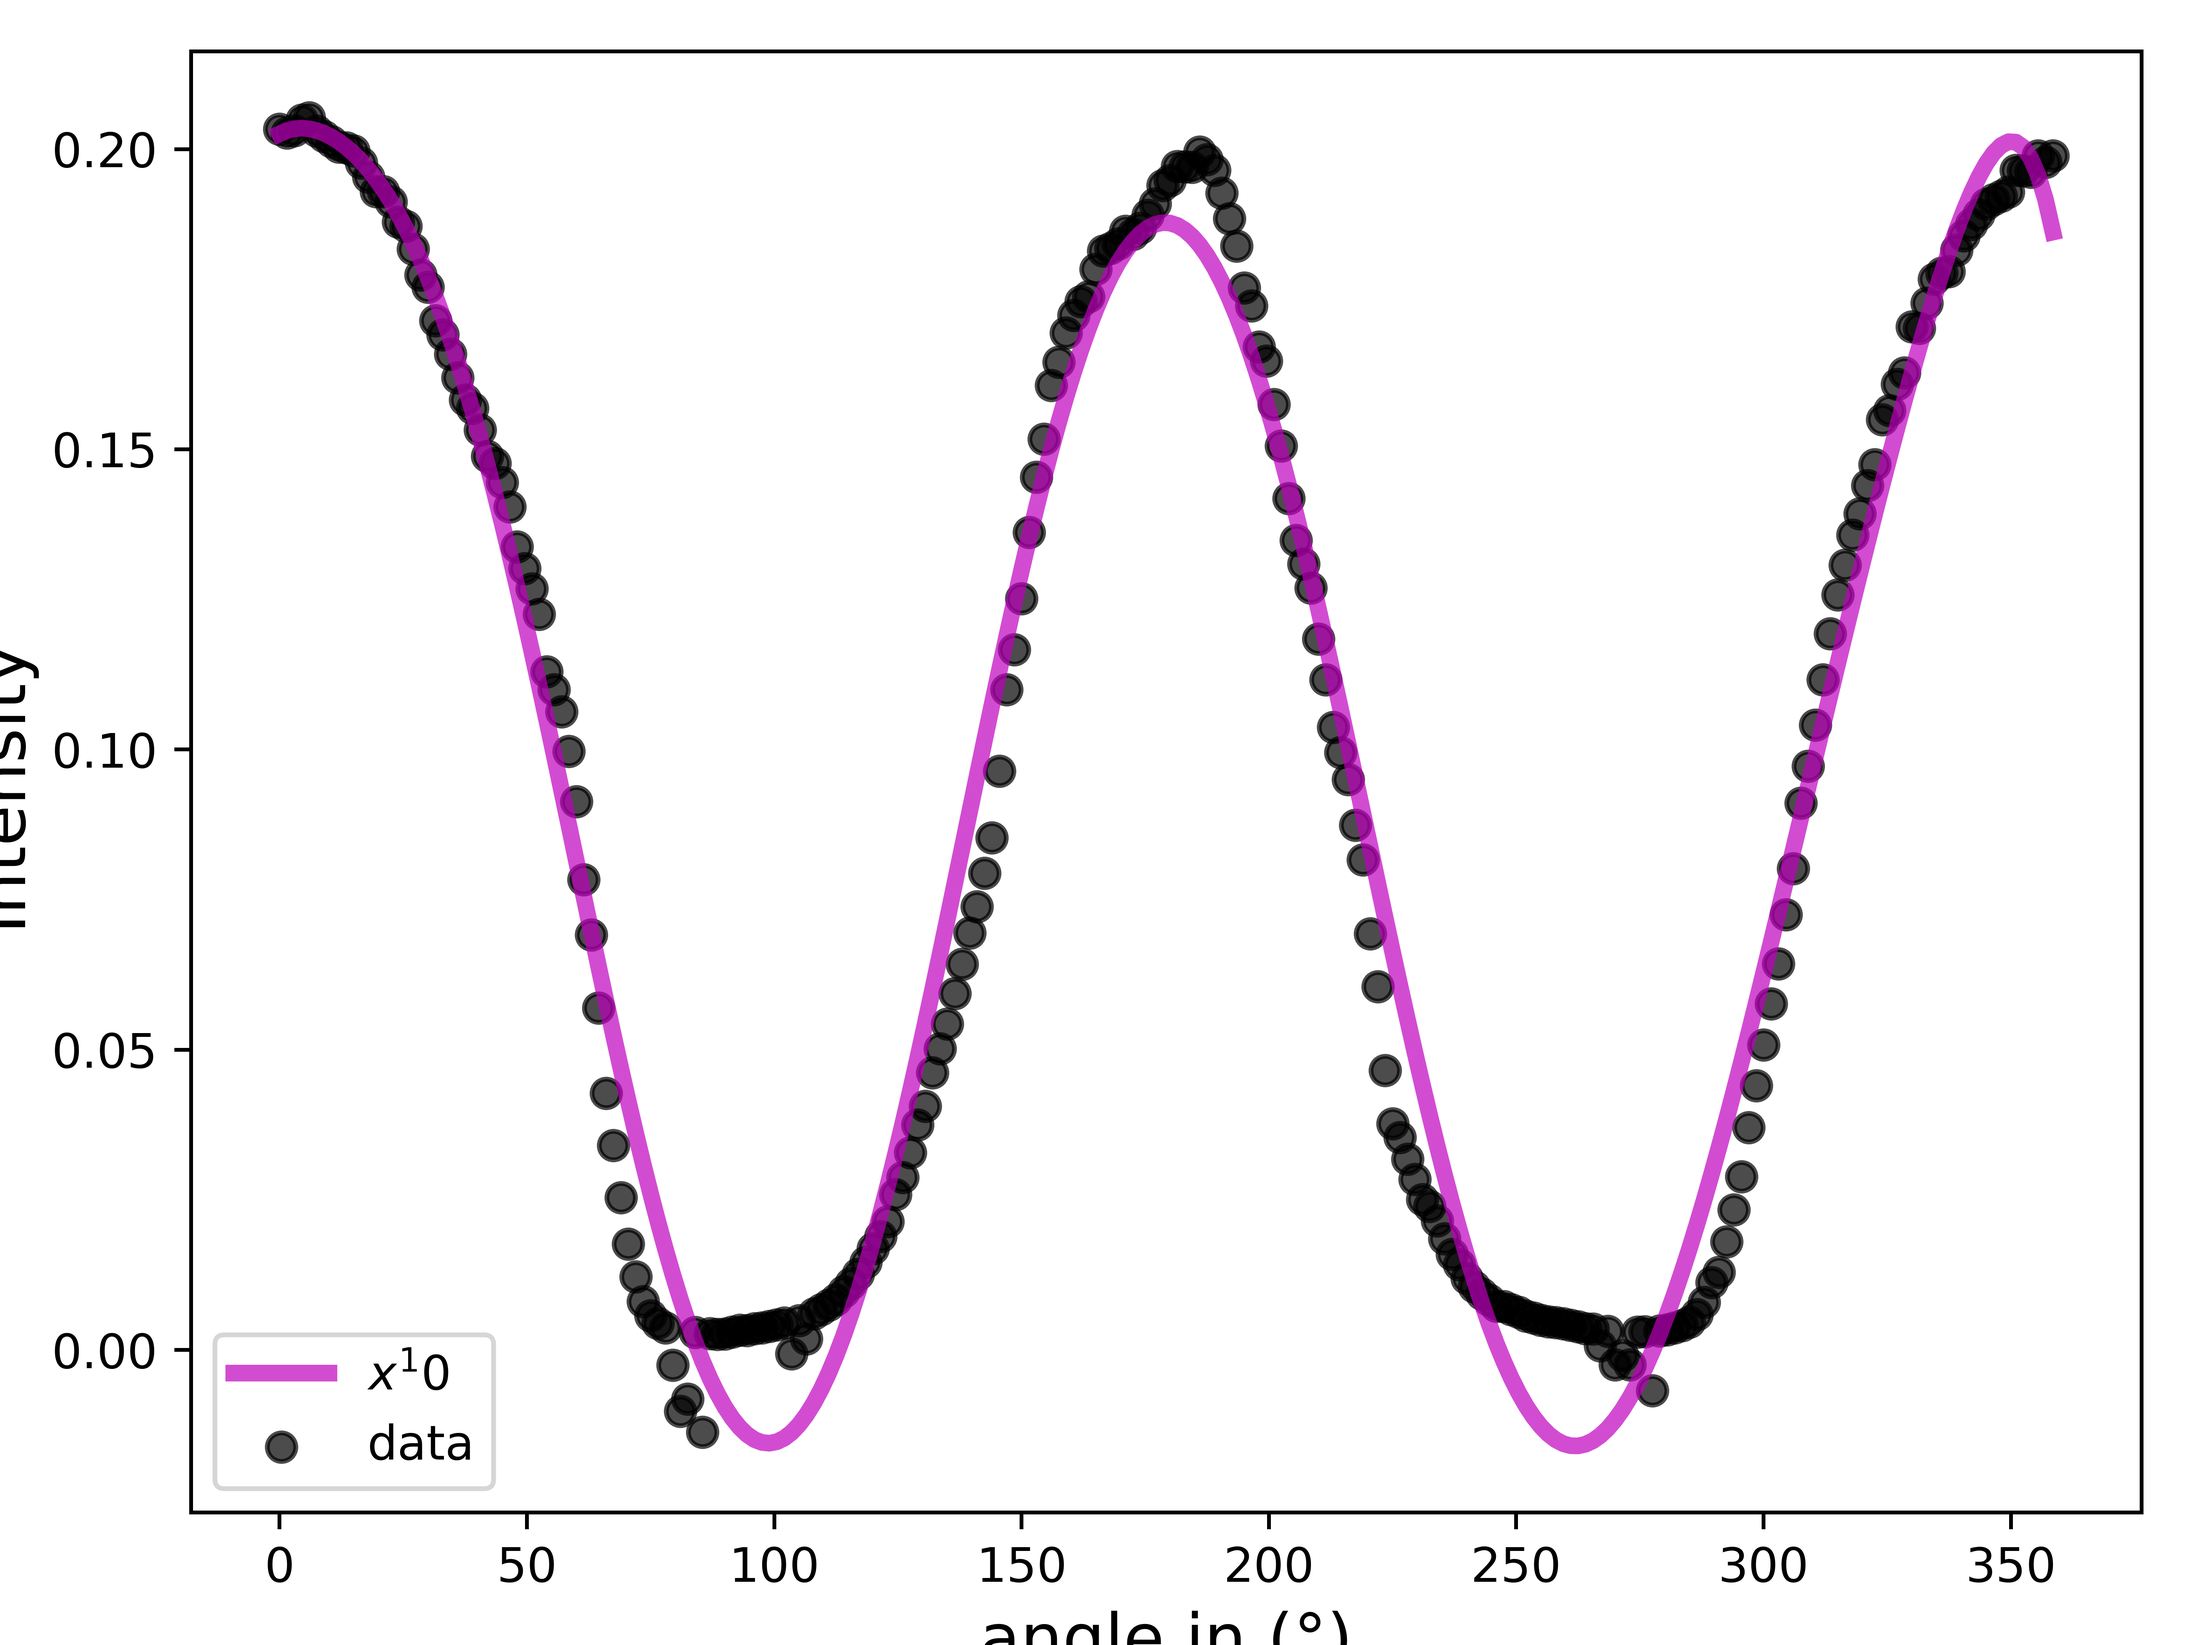
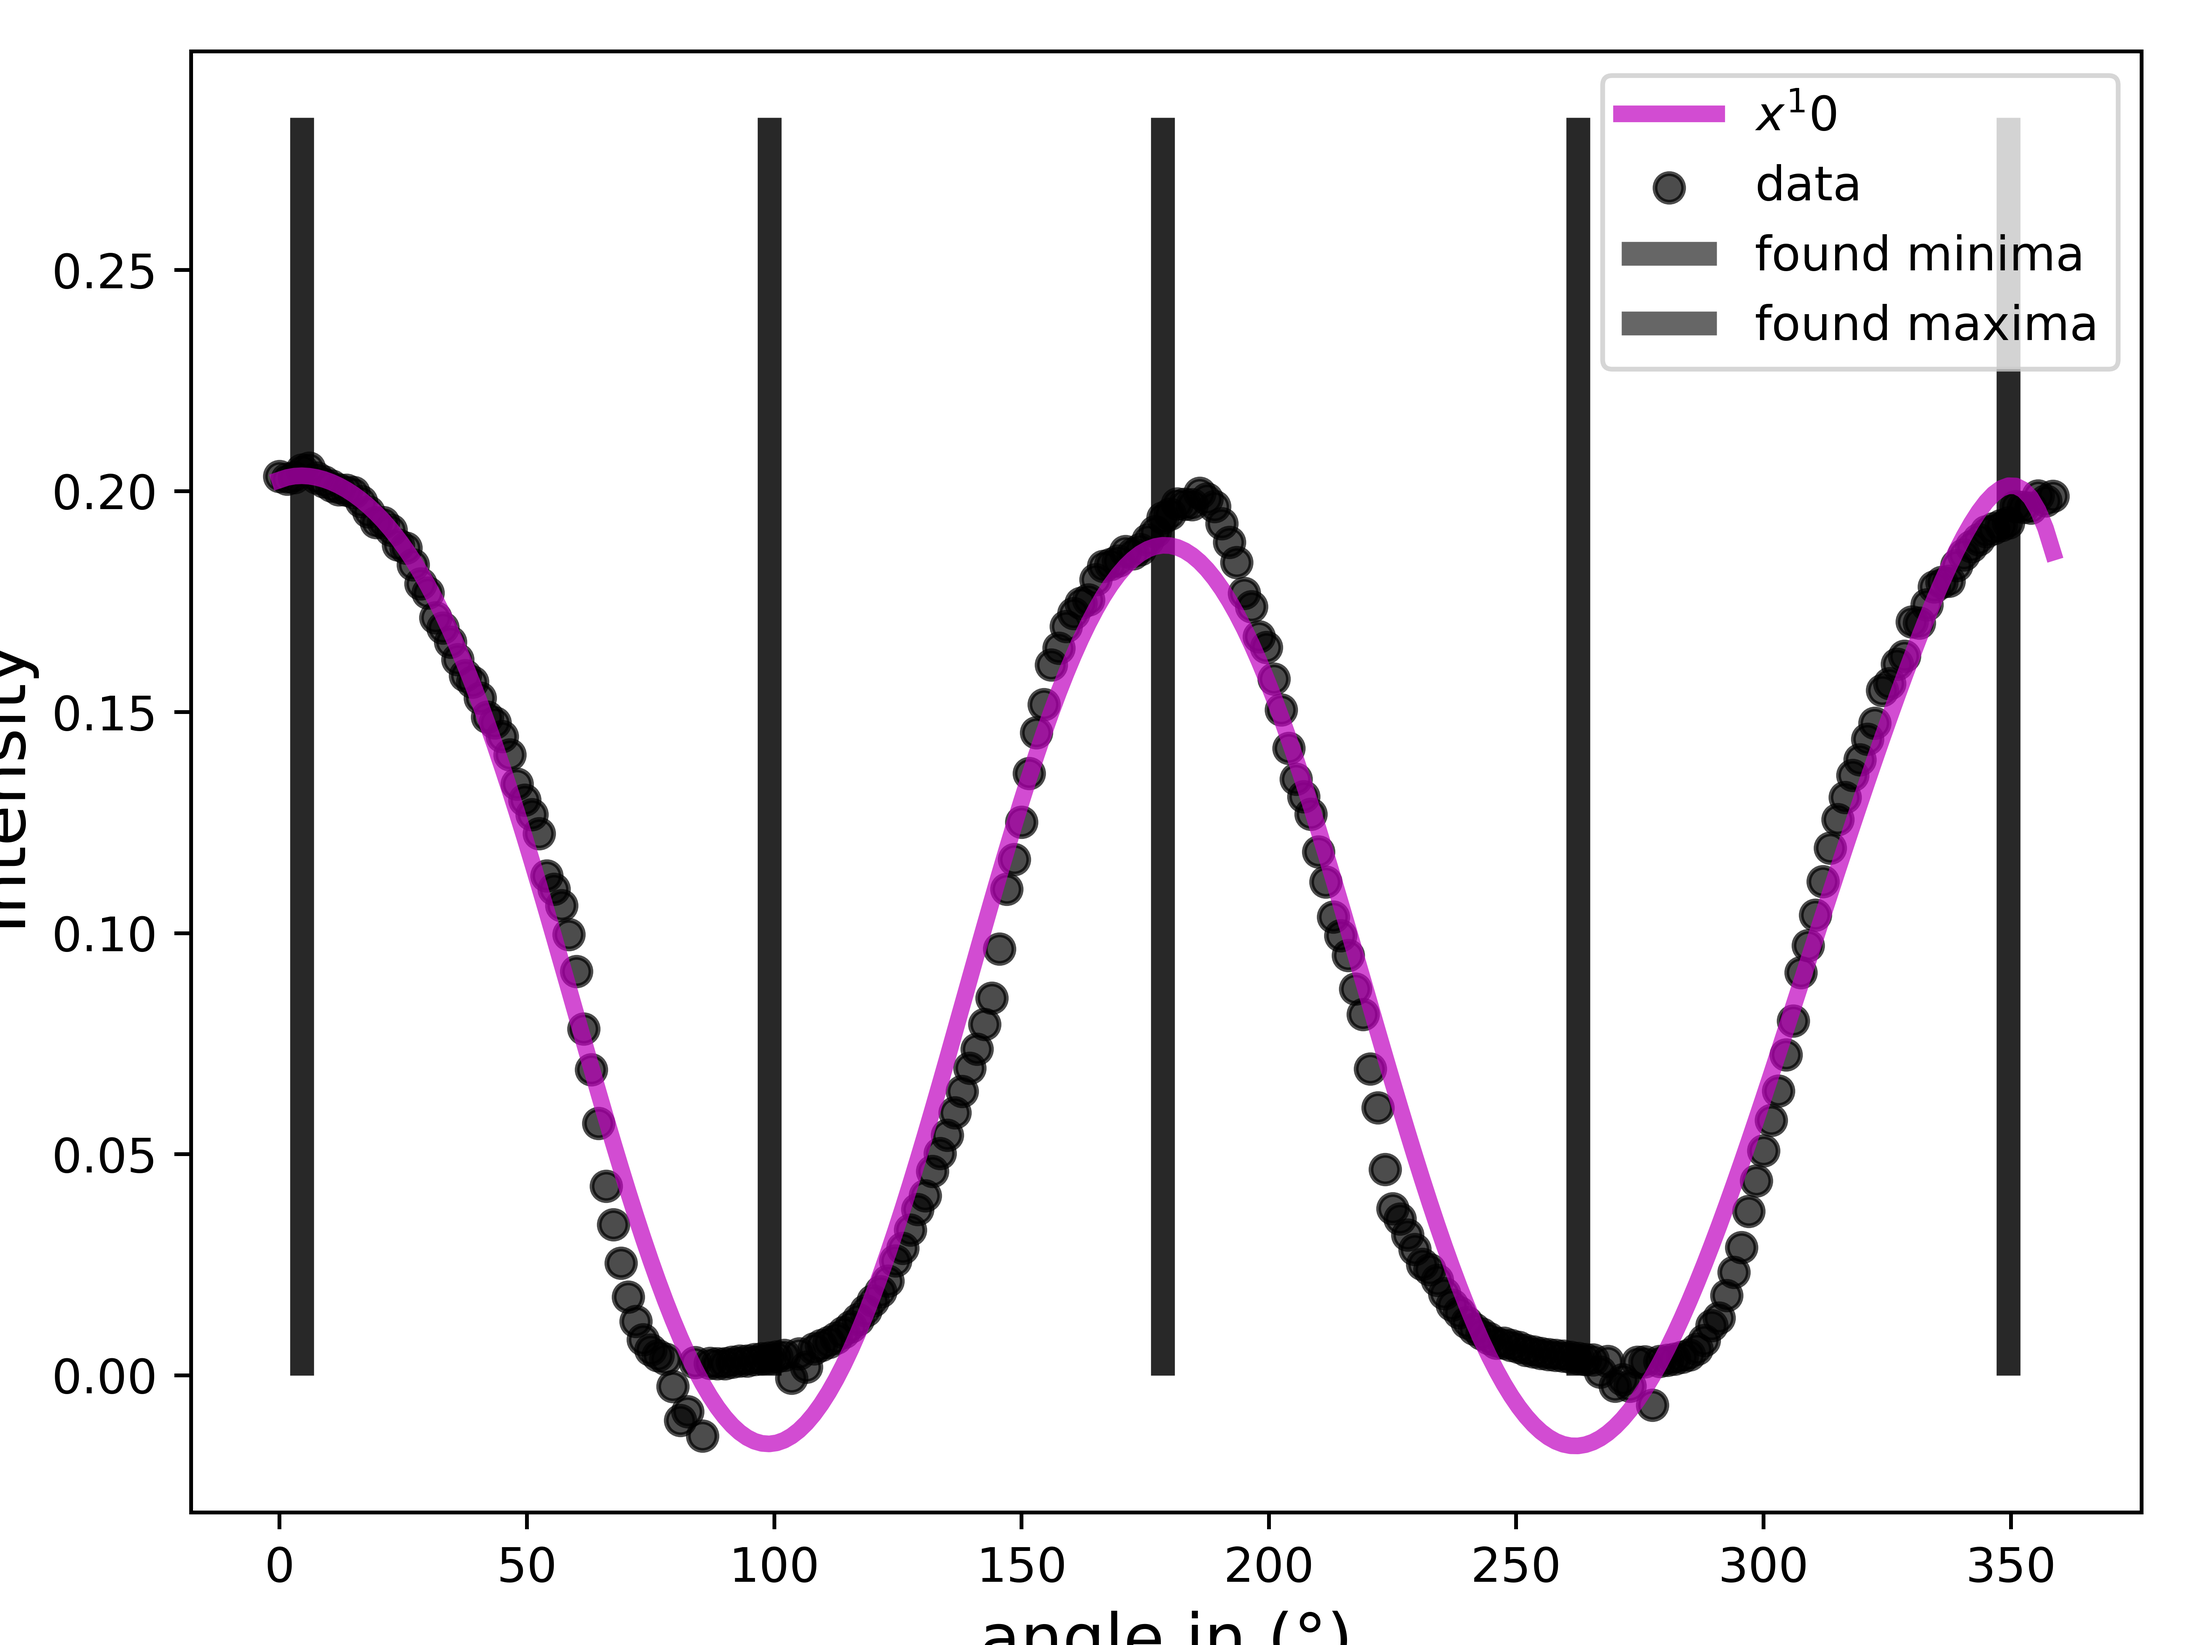
get_data and plotting ist working. + highlighting peaks! TODO: devide the space between major peaks equaly.

diff --git a/fit.py b/fit.py
@@ -2,6 +2,7 @@ import numpy as np
 from scipy.ndimage import gaussian_filter, median_filter
 from scipy.signal import argrelextrema
 from scipy.optimize import curve_fit
+import matplotlib.pyplot as plt
 import os
 import cv2 as cv
 
@@ -14,12 +15,13 @@ class Fit:
     p0_10.fill(0.1)
     degree = 10
 
-    def __init__(self, dir_data=None, dir_save=None):
+    def __init__(self, dir_data=None, dir_save=None, plot_data = None):
         self.median_kernel_size = 10
         self.gaussian_kernel_size = 5
         self.fit_function = 1
         self.dir_data = dir_data
         self.dir_rocessed = None
+        self.plot_data = plot_data
         self.dir_save = dir_save
         if dir_data is not None:
             self.load_data(self.dir_data)
@@ -33,46 +35,62 @@ class Fit:
     def rearrange_data(self, xdata):
         y = xdata
         single_step = 360 / xdata.size
-        x = np.arange(0, 360, single_step)
-        return x, y
+        x_angle = np.arange(0, 360, single_step)
+        x_step = np.arange(0, x_angle.size, 1)
+        arr_x = np.vstack((x_angle, x_step))
+        return arr_x, y
 
-    def get_data(self, dir_data):
+    def get_data(self):
         list_min_val = []
         list_filenames = []
         try:
-            for filename in os.listdir(dir_data):
-                img_raw = cv.imread(os.path.join(dir_data, filename), 2)
+            for filename in os.listdir(self.dir_data):
+                img_raw = cv.imread(os.path.join(self.dir_data, filename), 2)
                 # img_median_filter = median_filter(img_raw, self.median_kernel_size)                   # 1.1 sec
                 # img_gaussian_filter = gaussian_filter(img_median_filter, sigma=self.sigma)   # 0.3 sec
                 # cv.imwrite(self.dir_save + '\gaussian_' + filename, img_gaussian_filter)
                 # list_min_val.append(np.amin(img_gaussian_filter))
+                # negative Werte verwerfen?!
                 list_min_val.append(np.amin(img_raw))
                 list_filenames.append(filename)
         except FileNotFoundError:
             print('File not fount! Check the working directory.')
         arr_min_val = np.array(list_min_val)
-        x, y = self.rearrange_data(arr_min_val)
-        coeff, pcov = curve_fit(self.polynomial, x, y, p0=self.p0_10)
-        yfit = self.polynomial(x, *coeff)
-        xminima, xmaxima, intersteps = self.get_min_max(x, yfit)
+        self.x, self.y = self.rearrange_data(arr_min_val)                         # y is 1D, but x is 2D (1D for angle and 1D for numbering
+        coeff, pcov = curve_fit(self.polynomial, self.x[0], self.y, p0=self.p0_10)
+        self.yfit = self.polynomial(self.x[0], *coeff)
+        self.xminima, self.xmaxima, self.samples_major = self.get_min_max(self.x, self.yfit)
+        self.plot()
+        return self.xminima, self.xmaxima, self.samples_major
 
-        return xminima, xmaxima
+    def get_min_max(self, x, yfit):
+        n_intersept = 5
+        arr_maxima = argrelextrema(yfit, np.greater)
+        arr_minima = argrelextrema(yfit, np.less)
+        arr_extrema = np.concatenate((arr_minima, arr_maxima), axis=None)
+        arr_extrema = np.sort(arr_extrema)
+        intersept_major = []
+        for i in arr_extrema:
+            indx = x[0][i]
+            intersept_major.append(indx)
+        arr_inter_major = np.array(intersept_major)
 
-    def get_min_max(self,x_angle, yfit):
-        n = 5
-        arr_maxima = argrelextrema(yfit, np.greater)  # (array([1, 3, 6]),)
-        arr_minima = argrelextrema(yfit, np.less)  # (array([2, 5, 7]),)
-        for i in arr_maxima, arr_minima:
-           x_minima = x_angle[i]
-           x_maxima = x_angle[i]
-        # Was wenn maxima und minima unterschiedliche Anzahl haben (Also wie zu 99% der Faelle)
-        n_minima = len(minima)
-        n_maxima = len(maxima)
 
         # gehe durch beide Listen und finde zum ersten Extrema x0 den darauffolgenden x1 (unabhaengig von min oder max)
         # ziehe diese Extrema von einander ab und teile den Abstand in aequidistante Abstaende
-        intersteps = abs(maxima[0] - minima[0])/n
-        return minima, maxima, intersteps
+        #for i in arr_extrema:
+        #    indx = abs(arr_extrema[i+1] - arr_extrema[i])/n
+
+
+        #for i in arr_maxima, arr_minima:
+        #   x_minima = x_angle[i] == x
+        #   x_maxima = x_angle[i]
+        # Was wenn maxima und minima unterschiedliche Anzahl haben (Also wie zu 99% der Faelle)
+        #n_minima = len(minima)
+        #n_maxima = len(maxima)
+
+
+        return arr_minima, arr_maxima, arr_inter_major
 
     def polynomial(self, x, *coeff):
         return coeff[0] * x ** 10 + coeff[1] * x ** 9 + coeff[2] * x ** 8 + coeff[3] * x ** 7 \
@@ -83,10 +101,30 @@ class Fit:
         min = self.minima
 
     def load_data(self, dir_data):
-        self.get_data(dir_data)
+        self.get_data()
 
     def data_save(self, dir_save):
         pass
 
     def log_file(self):
         pass
+
+    def plot(self):
+        size = 256, 16
+        dpi = 900
+        figsize = size[0] / float(dpi), size[1] / float(dpi)
+        color = ['r', 'g', 'b', 'k', 'y', 'm', 'c']
+        linewidth = 3.5
+        axis_font = 14
+        plt.scatter(self.x[0], self.y, marker='o', color='black', alpha=0.7, label='data')
+        plt.plot(self.x[0], self.yfit, c=color[5], linestyle='-', linewidth=linewidth, alpha=0.7, label='$x^{}$'.format(self.degree))
+        plt.vlines(x=self.samples_major, ymin=0, ymax=figsize[0], colors='black', ls='-', alpha=0.6, lw=5, label='found minima')
+        plt.vlines(x=self.samples_major, ymin=0, ymax=figsize[0], colors='black', ls='-', alpha=0.6, lw=5, label='found maxima')
+        #plt.vlines(x=self.samples_major, ymin=0, ymax=self.y, colors='gray', ls='--', lw=2, label='equally spaced sample points')
+        plt.legend()
+        plt.tight_layout()
+        plt.xlabel('angle in (°)', fontsize=axis_font)
+        plt.ylabel('Intensity', fontsize=axis_font)
+        plt.savefig('min_values_of_intensity.png', dpi=900)
+        plt.show()
+        return True

diff --git a/main.py b/main.py
@@ -5,8 +5,12 @@ import plotting_file
 def main():
     dir_to_data = r'C:\Users\Rechenfuchs\Desktop\jakobs_data\processed'
     dir_to_save = None
-    fit_x10 = fit.Fit(dir_to_data, None)
-    min, max = fit_x10.ge
+
+    #Create objects
+    fit_x10 = fit.Fit(dir_to_data, None, None)
+
+    min, max, samples_major = fit_x10.get_data()
+    #fit_x10.plot_data()
     print('The minumum values are: {}'.format(min))
     print('The maximum values are: {}'.format(max))
 
